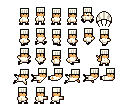
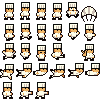
Added chef walking

diff --git a/core/src/com/mygdx/game/Chef.java b/core/src/com/mygdx/game/Chef.java
@@ -1,6 +1,85 @@
 package com.mygdx.game;
-import java.util.*;
+import com.badlogic.gdx.Gdx;
+import com.badlogic.gdx.Input;
+import com.badlogic.gdx.graphics.Texture;
+import com.badlogic.gdx.graphics.g2d.Animation;
+import com.badlogic.gdx.graphics.g2d.Sprite;
+import com.badlogic.gdx.graphics.g2d.SpriteBatch;
+import com.badlogic.gdx.graphics.g2d.TextureRegion;
 
-public class Chef {
+public class Chef extends Sprite {
+    private static final int FRAME_COLS = 6;
+    private static final int FRAME_ROWS = 5;
+
+    SpriteBatch spriteBatch;
+    private final float stateTime;
+
+    public enum State {WALKING, STANDING};
+    State currentState;
+    String prevState;
+
+    private Texture texture;
+    TextureRegion chefStanding;
+    Animation<TextureRegion> playerWalk;
+    private Level level;
+    private float walkingSpeed;
+    private float runningSpeed;
+
+
+    public Chef(Level level){
+        texture = new Texture(Gdx.files.internal("chef/a1.png"));
+        walkingSpeed = 10;
+        TextureRegion[][] tmp = TextureRegion.split(texture,
+                texture.getWidth() / FRAME_COLS,
+                texture.getHeight() / FRAME_ROWS);
+
+        chefStanding = tmp[0][0];
+        TextureRegion[] frames = new TextureRegion[FRAME_COLS];
+        int index = 0;
+        for (int i = 0; i < FRAME_COLS; i++) {
+                frames[index++] = tmp[1][i];
+        }
+        currentState = State.WALKING;
+        playerWalk = new Animation<TextureRegion>(0.25f, frames);
+        stateTime = 0f;
+        spriteBatch = new SpriteBatch();
+    }
+
+    public void handleInput(){
+        if(Gdx.input.isKeyPressed(Input.Keys.W)){
+            this.setY(this.getY() + walkingSpeed);
+            currentState = State.WALKING;
+        }
+        else if (Gdx.input.isKeyPressed(Input.Keys.S)){
+            this.setY(this.getY() - walkingSpeed);
+            currentState = State.WALKING;
+        }
+        else if(Gdx.input.isKeyPressed(Input.Keys.D)){
+            this.setX(this.getX() + walkingSpeed);
+            currentState = State.WALKING;
+        }
+        else if(Gdx.input.isKeyPressed(Input.Keys.A)){
+            this.setX(this.getX() - walkingSpeed);
+            currentState = State.WALKING;
+        }
+        else currentState = State.STANDING;
+
+    }
+
+    public boolean isStanding(){
+        if (currentState == State.STANDING){
+            return true;
+        }
+        return false;
+    }
+
+    public void dispose (){
+        spriteBatch.dispose();
+        texture.dispose();
+    }
+
+
+
+
     
 }

diff --git a/core/src/com/mygdx/game/T12Piazza.java b/core/src/com/mygdx/game/T12Piazza.java
@@ -2,6 +2,7 @@ package com.mygdx.game;
 import java.util.*;
 
 import com.badlogic.gdx.ApplicationAdapter;
+import com.badlogic.gdx.ApplicationListener;
 import com.badlogic.gdx.Gdx;
 import com.badlogic.gdx.graphics.Texture;
 import com.badlogic.gdx.graphics.g2d.TextureAtlas;
@@ -9,24 +10,29 @@ import com.badlogic.gdx.graphics.g2d.SpriteBatch;
 import com.badlogic.gdx.graphics.g2d.TextureRegion;
 import com.badlogic.gdx.utils.ScreenUtils;
 
-public class T12Piazza extends ApplicationAdapter {
+
+public class T12Piazza implements ApplicationListener {
 	SpriteBatch batch;
-	Texture chef_1;
+	Chef chef_1;
 	Texture chef_2;
 	TextureRegion chef_1_default;
 
 	Level myLevelManager;
+	float stateTime;
 
 
 	@Override
 	public void create () {
 		batch = new SpriteBatch();
-		chef_1 = new Texture("chef/a2.png");
 		chef_2 = new Texture("chef/b2.png");
-		chef_1_default = new TextureRegion(chef_1, 34, 12, 30, 40);
+		//chef_1_default = new TextureRegion(chef_1, 34, 12, 30, 40);
 		myLevelManager = new Level();
+		chef_1 = new Chef(myLevelManager);
 		myLevelManager.initialiseLevel();
+	}
 
+	@Override
+	public void resize(int width, int height) {
 
 	}
 
@@ -42,10 +48,28 @@ public class T12Piazza extends ApplicationAdapter {
 			//This is statement is checking the time since the last user I/O. If the time has been suffiently long it request the game move to the idle mode
 			//System.out.println("Activate idle");
 		}
+
+		stateTime += Gdx.graphics.getDeltaTime(); // Accumulate elapsed animation time
+
 		ScreenUtils.clear(1, 0, 0, 1);
+		TextureRegion chefFrame = chef_1.playerWalk.getKeyFrame(stateTime, true);
 		batch.begin();
-		batch.draw(chef_1_default, 400, 200);
+		if (chef_1.isStanding()){
+			chefFrame = chef_1.chefStanding;
+		}
+		chef_1.handleInput();
+		batch.draw(chefFrame, chef_1.getX(), chef_1.getY(), 50, 50);
 		batch.end();
+	}
+
+	@Override
+	public void pause() {
+
+	}
+
+	@Override
+	public void resume() {
+
 	}
 
 	@Override
